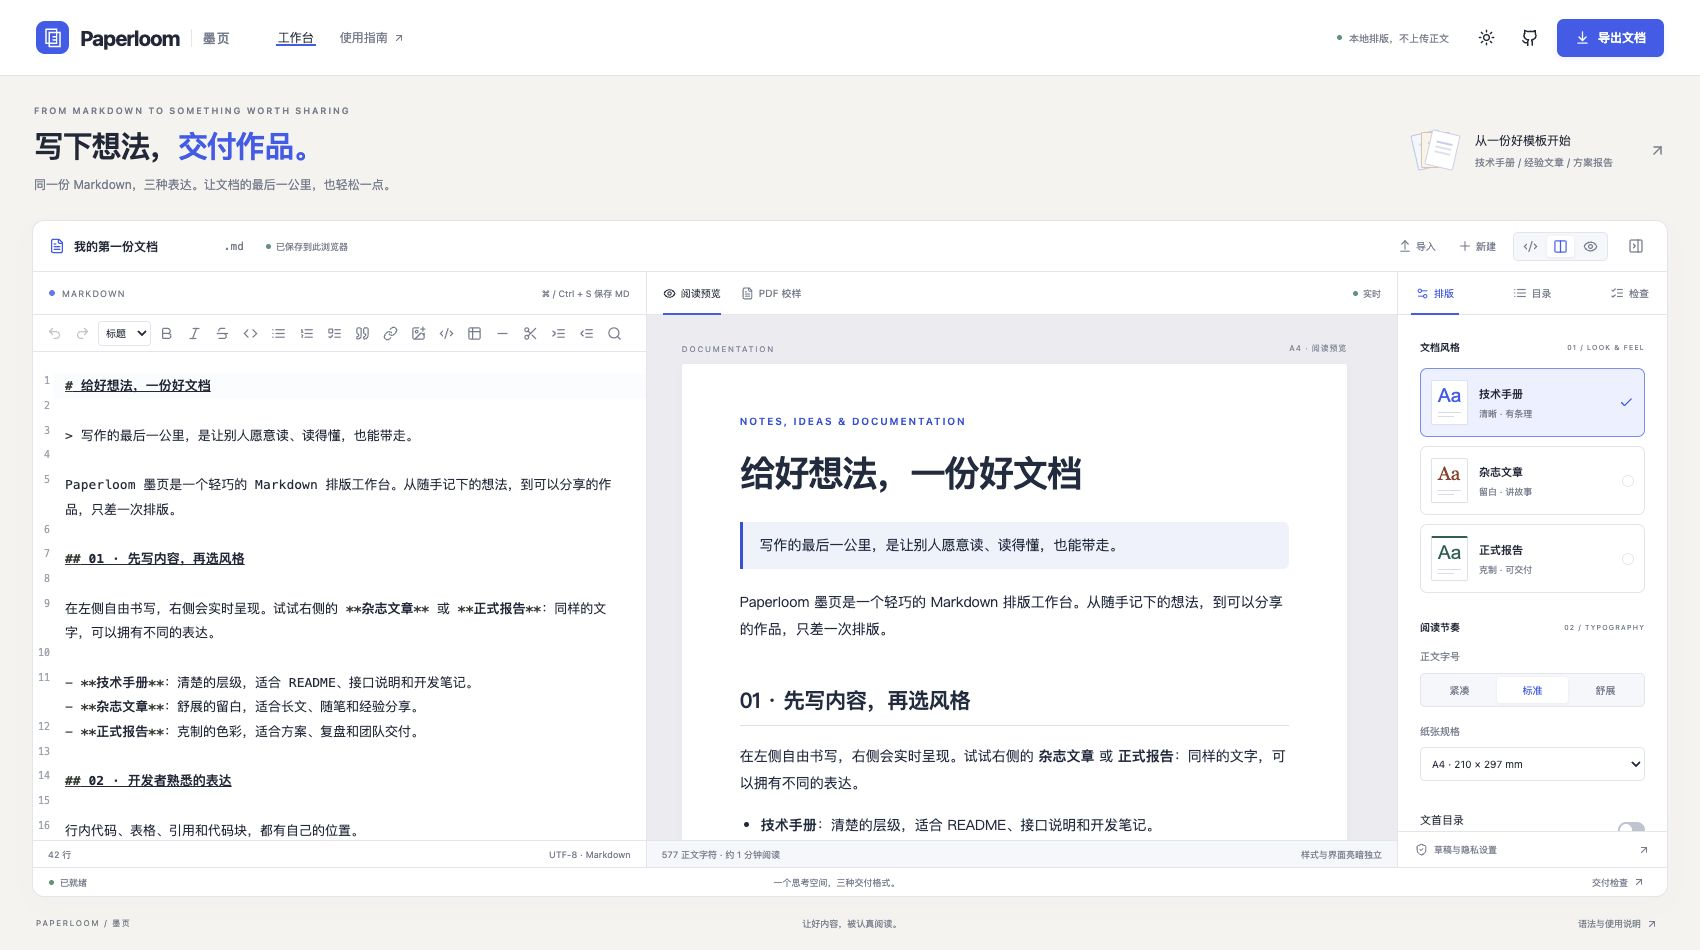
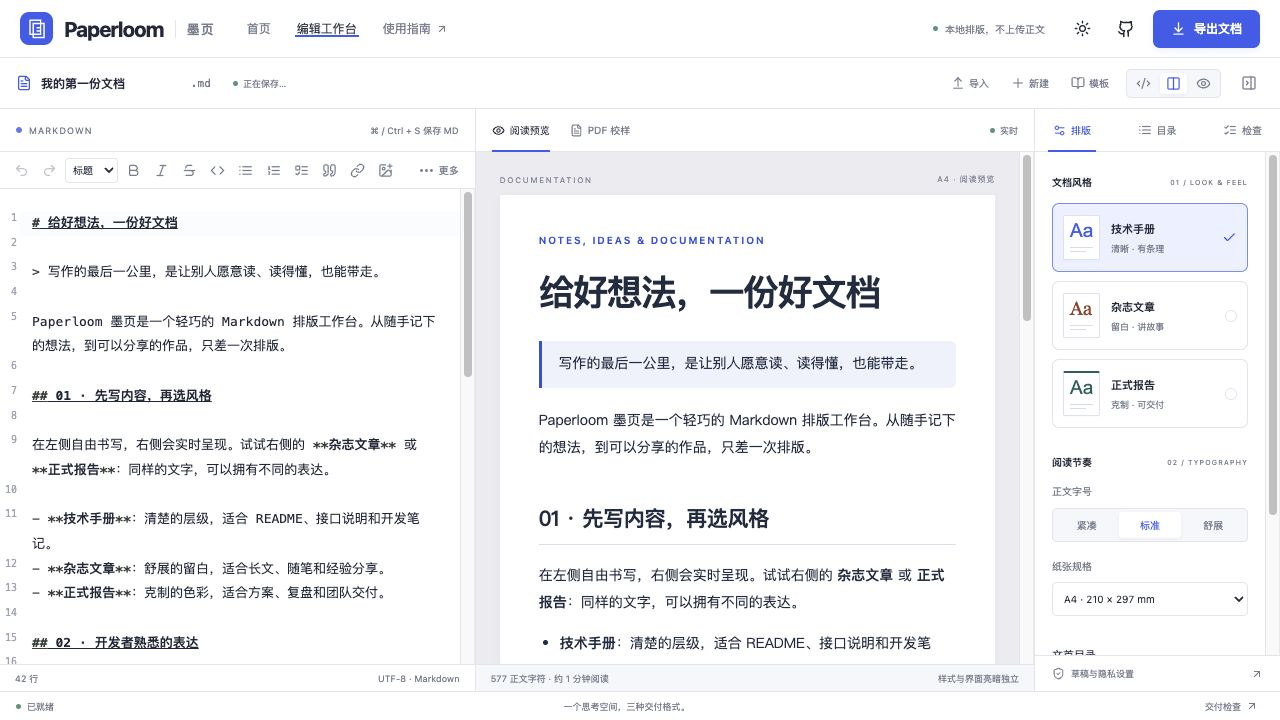
Separate showcase home from full-window Markdown workspace

diff --git a/src/App.tsx b/src/App.tsx
@@ -36,6 +36,7 @@ import {
   Type,
   X,
 } from "lucide-react";
+import { Home } from "./ui/Home";
 import { Editor, type EditorHandle } from "./ui/Editor";
 import { Modal } from "./ui/Modal";
 import { MarkdownToolbar } from "./ui/MarkdownToolbar";
@@ -97,6 +98,22 @@ function download(blob: Blob, name: string) {
   setTimeout(() => URL.revokeObjectURL(url), 30000);
 }
 export default function App() {
+  const [page, setPage] = useState(() => location.hash.startsWith("#/workspace") ? "workspace" : "home");
+  const isWorkspace = page === "workspace";
+  const enterWorkspace = () => { location.hash = "/workspace"; };
+  useEffect(() => {
+    const navigate = () => {
+      setPage(location.hash.startsWith("#/workspace") ? "workspace" : "home");
+      if (!location.hash.startsWith("#/workspace")) setModal("");
+      window.scrollTo(0, 0);
+      requestAnimationFrame(() => { if (!document.querySelector("dialog[open]")) document.getElementById("workspace")?.focus({ preventScroll: true }); });
+    };
+    window.addEventListener("hashchange", navigate);
+    return () => window.removeEventListener("hashchange", navigate);
+  }, []);
+  useEffect(() => {
+    document.title = isWorkspace ? "编辑工作台 · Paperloom 墨页" : "Paperloom 墨页 · Markdown 排版与交付";
+  }, [isWorkspace]);
   const [history, setHistory] = useState({ undo: false, redo: false });
   const [initial] = useState(load),
     [source, setSource] = useState(initial.source),
@@ -113,7 +130,7 @@ export default function App() {
       initial.restored ? "已恢复本地草稿" : "草稿仅保存在此浏览器",
     );
   const [mode, setMode] = useState<"split" | "edit" | "preview">("split"),
-    [sidebar, setSidebar] = useState(true),
+    [sidebar, setSidebar] = useState(() => !matchMedia("(max-width: 720px)").matches),
     [sideTab, setSideTab] = useState<"style" | "outline" | "check">("style"),
     [previewTab, setPreviewTab] = useState<"read" | "pdf">("read"),
     [modal, setModal] = useState<
@@ -424,21 +441,20 @@ export default function App() {
     },
   ] as const;
   return (
-    <>
-      <a href="#workspace" className="skip">
+    <div className={`app-shell ${isWorkspace ? "workspace-page" : "home-page"}`}>
+      <a href="#/workspace" className="skip" onClick={(e) => { if (isWorkspace) { e.preventDefault(); document.getElementById("editor-workbench")?.focus(); } }}>
         跳到工作台
       </a>
       <header className="app-header">
-        <a className="brand" href="#" aria-label="Paperloom 墨页首页">
+        <a className="brand" href="#/" aria-label="Paperloom 墨页首页">
           <img src={`${import.meta.env.BASE_URL}favicon.svg`} alt="" />
           <span>
             Paperloom<small>墨页</small>
           </span>
         </a>
         <nav className="main-nav">
-          <button className="active" onClick={() => setModal("")}>
-            工作台
-          </button>
+          <button className={!isWorkspace ? "active" : ""} onClick={() => { location.hash = "/"; }}>首页</button>
+          <button className={isWorkspace ? "active" : ""} onClick={enterWorkspace}>编辑工作台</button>
           <button onClick={() => setModal("guide")}>
             使用指南 <ArrowUpRight size={12} />
           </button>
@@ -478,42 +494,23 @@ export default function App() {
           >
             <Github size={18} />
           </a>
-          <button
+          {isWorkspace ? <button
             className="primary header-export"
             disabled={!fresh || pdfBusy}
             onClick={() => setModal("export")}
-          >
-            <ArrowDownToLine size={15} /> 导出文档
-          </button>
+          ><ArrowDownToLine size={15} /> 导出文档</button> : <button className="primary header-export" onClick={enterWorkspace}><Maximize2 size={15} /> 进入工作台</button>}
+
         </div>
       </header>
       <main id="workspace" tabIndex={-1}>
-        <section className="intro">
-          <div>
-            <div className="eyebrow">
-              FROM MARKDOWN TO SOMETHING WORTH SHARING
-            </div>
-            <h1>
-              写下想法，<em>交付作品。</em>
-            </h1>
-            <p>同一份 Markdown，三种表达。让文档的最后一公里，也轻松一点。</p>
-          </div>
-          <button
-            className="template-entry"
-            onClick={() => setModal("templates")}
-          >
-            <span className="mini-sheets">
-              <i />
-              <i />
-              <i />
-            </span>
-            <span>
-              从一份好模板开始<small>技术手册 / 经验文章 / 方案报告</small>
-            </span>
-            <ArrowUpRight size={17} />
-          </button>
-        </section>
+        {!isWorkspace && <Home onStart={enterWorkspace}
+          onImport={() => { enterWorkspace(); file.current?.click(); }}
+          onTemplates={() => { enterWorkspace(); setModal("templates"); }}
+          onGuide={() => setModal("guide")} restored={initial.restored} />}
         <section
+          id="editor-workbench"
+          tabIndex={-1}
+          hidden={!isWorkspace}
           className={`workbench mode-${mode} ${sidebar ? "" : "no-sidebar"}`}
           aria-label="Markdown 工作台"
         >
@@ -556,6 +553,8 @@ export default function App() {
                 <Plus size={14} />
                 新建
               </button>
+              <button onClick={() => setModal("templates")}><BookOpen size={14} />模板</button>
+              <button className="workspace-help" onClick={() => setModal("guide")} aria-label="使用指南"><BookOpen size={14} /></button>
               <div className="layout-switch" role="group" aria-label="编辑布局">
                 <button
                   aria-label="仅编辑"
@@ -1021,13 +1020,13 @@ export default function App() {
             </button>
           </div>
         </section>
-        <footer className="site-footer">
+        {!isWorkspace && <footer className="site-footer">
           <span>PAPERLOOM / 墨页</span>
           <span>让好内容，被认真阅读。</span>
           <button onClick={() => setModal("guide")}>
             语法与使用说明 <ArrowUpRight size={12} />
           </button>
-        </footer>
+        </footer>}
       </main>
       <input
         type="file"
@@ -1236,7 +1235,7 @@ export default function App() {
             <p className="guide-lead">
               写作 → 选排版 → 做检查 → 看校样 → 导出。
               <br />
-              第一次打开就能开始，不需要账号和配置。
+              从首页进入「编辑工作台」即可开始，不需要账号和配置。首页仅展示功能；工作台占满窗口，导入、模板、排版、检查和导出都在其中。
             </p>
             <div className="guide-grid">
               <section>
@@ -1301,6 +1300,6 @@ export default function App() {
           </button>
         </div>
       )}
-    </>
+    </div>
   );
 }

diff --git a/src/app.css b/src/app.css
@@ -2237,3 +2237,70 @@ main#workspace {
 .toolbar-more-size {
   width: max-content;
 }
+
+/* Dedicated viewport workspace; the home page is a read-only product showcase. */
+[hidden] { display: none !important; }
+.workspace-page { height: 100dvh; display: flex; flex-direction: column; overflow: hidden; }
+.workspace-page .app-header { height: 58px; flex: 0 0 58px; padding: 0 20px; gap: 30px; }
+.workspace-page main#workspace { max-width: none; width: 100%; margin: 0; padding: 0; flex: 1; min-height: 0; display: flex; }
+.workspace-page .workbench { width: 100%; height: 100%; min-height: 0; max-height: none; border: 0; border-radius: 0; box-shadow: none; }
+.workspace-help { display: none; }
+.home-content { max-width: 1200px; margin: auto; }
+.home-hero { text-align: center; padding: 70px 20px 46px; }
+.home-hero h1 { font-size: clamp(42px, 5vw, 68px); letter-spacing: -2px; line-height: 1.2; margin: 22px 0; }
+.home-hero h1 em { color: var(--accent); font-style: normal; }
+.home-hero p { color: var(--muted); font-size: 15px; line-height: 1.9; }
+.home-actions { display: flex; justify-content: center; flex-wrap: wrap; gap: 12px; margin: 28px 0 18px; }
+.home-actions button { min-height: 44px; }
+.home-local { display: inline-flex; gap: 7px; align-items: center; color: var(--muted); font-size: 11px; }
+.showcase { border: 1px solid var(--line); border-radius: 14px; background: var(--surface); overflow: hidden; box-shadow: 0 20px 65px #252d400a; }
+.showcase-bar { display: flex; justify-content: space-between; align-items: center; padding: 16px 24px; border-bottom: 1px solid var(--line); font-size: 10px; color: var(--muted); }
+.showcase-bar button { color: var(--accent); }
+.showcase-body { display: grid; grid-template-columns: 1fr 1fr; background: var(--preview); }
+.showcase-source { padding: 35px; background: var(--surface); }
+.showcase-source > span { font-size: 9px; letter-spacing: 2px; color: var(--muted); }
+.showcase-source pre { font: 13px/2.2 "SFMono-Regular",Consolas,monospace; white-space: pre-wrap; margin-top: 24px; color: var(--text); }
+.showcase-paper { margin: 28px; padding: 36px; background: #fff; color: #252d40; box-shadow: 0 4px 20px #252d4008; }
+.showcase-paper > span, .showcase-paper small { font-size: 8px; letter-spacing: 1.5px; color: #4263eb; }
+.showcase-paper h2 { font-size: 30px; line-height: 1.5; margin: 22px 0; }
+.showcase-paper blockquote { margin: 0; padding: 12px; border-left: 3px solid #4263eb; background: #eff2ff; font-size: 12px; }
+.showcase-paper h3 { font-size: 16px; margin-top: 25px; }
+.showcase-paper p { font-size: 12px; line-height: 1.9; }
+.showcase-paper hr { border: 0; border-top: 1px solid #e6e8ee; margin: 24px 0; }
+.home-features { display: grid; grid-template-columns: repeat(3, 1fr); gap: 38px; padding: 65px 10px; }
+.home-features svg { color: var(--accent); }
+.home-features h2 { font-size: 18px; margin-top: 18px; }
+.home-features p { font-size: 13px; color: var(--muted); line-height: 1.9; }
+.home-features button { color: var(--accent); font-size: 12px; padding: 6px 0; }
+.home-bottom { text-align: center; padding: 15px 10px 50px; }
+.home-bottom h2 { font-size: 24px; margin-bottom: 24px; }
+@media (max-width: 980px) and (min-width: 721px) {
+  .workspace-page .save-state { display: none; }
+  .workspace-page .document-name input { width: 100px; }
+}
+@media (max-width: 720px) {
+  .workspace-page .app-header { padding: 0 12px; gap: 10px; height: 54px; flex-basis: 54px; }
+  .workspace-page .brand small { display: none; }
+  .workspace-page .workbench { display: grid; grid-template-columns: minmax(0,1fr); grid-template-rows: 82px minmax(0,1fr) 29px; }
+  .workspace-page .editor-pane, .workspace-page .preview-pane { height: auto; min-height: 0; grid-column: 1; grid-row: 2; }
+  .workspace-page .mode-split .preview-pane { display: none; }
+  .workspace-page .layout-switch button[aria-label="分屏"] { display: none; }
+  .workspace-page .mode-split button[aria-label="仅编辑"] { background: var(--surface); color: var(--accent); }
+  .workspace-page .inspector { position: absolute; top: 82px; bottom: 29px; right: 0; width: min(300px,100%); height: auto; z-index: 25; border-left: 1px solid var(--line); box-shadow: -8px 0 25px #252d4020; }
+  .workspace-page .save-state { font-size: 7px; }
+  .workspace-page .document-actions { gap: 4px; }
+  .workspace-help { display: inline-flex; }
+  .workspace-page .workbench-status { grid-column: 1; grid-row: 3; }
+  .home-hero { padding: 45px 0 32px; }
+  .home-hero p { font-size: 12px; }
+  .showcase-bar { padding: 13px 12px; font-size: 8px; }
+  .showcase-body { grid-template-columns: 1fr; }
+  .showcase-source { display: none; }
+  .showcase-paper { margin: 18px; padding: 28px; }
+  .home-features { grid-template-columns: 1fr; gap: 24px; padding: 40px 8px; }
+  .home-features h2 { margin-top: 12px; }
+  .home-bottom h2 { font-size: 20px; }
+}
+@media (min-width: 721px) {
+  .document-actions > .workspace-help { display: none; }
+}

diff --git a/src/ui/Home.tsx b/src/ui/Home.tsx
@@ -1,0 +1,30 @@
+import { ArrowUpRight, ArrowUpFromLine, BookOpen, Columns2, FileText, Maximize2, ShieldCheck } from "lucide-react";
+export function Home({ onStart, onImport, onTemplates, onGuide, restored }: {
+  onStart: () => void; onImport: () => void; onTemplates: () => void; onGuide: () => void; restored: boolean;
+}) {
+  return <div className="home-content">
+    <section className="home-hero">
+      <div className="eyebrow">A LITTLE ROOM FOR GOOD IDEAS</div>
+      <h1>写下想法，<br /><em>交付作品。</em></h1>
+      <p>从 Markdown 到值得分享的文档。<br />在完整的编辑工作台里写作、排版、校样，一次完成。</p>
+      <div className="home-actions">
+        <button className="primary" onClick={onStart}><Maximize2 size={17} />{restored ? "继续编辑本地草稿" : "打开编辑工作台"}<ArrowUpRight size={16} /></button>
+        <button className="secondary" onClick={onImport}><ArrowUpFromLine size={16} />导入 Markdown</button>
+      </div>
+      <span className="home-local"><ShieldCheck size={14} />无需登录 · 正文留在浏览器 · 免费开源</span>
+    </section>
+    <section className="showcase" aria-label="工作台功能展示">
+      <div className="showcase-bar"><span><span className="status-dot" /> PAPERLOOM / 工作台预览</span><button onClick={onStart}>进入全屏编辑 <ArrowUpRight size={14} /></button></div>
+      <div className="showcase-body">
+        <div className="showcase-source"><span>MARKDOWN</span><pre>{'# 给好想法，一份好文档\n\n> 写作的最后一公里。\n\n## 先写内容，再选风格\n\n- [x] 在线编辑与实时预览\n- [x] 三种文档排版\n- [x] PDF · HTML · Markdown\n\n**让内容，被认真阅读。**'}</pre></div>
+        <article className="showcase-paper"><span>NOTES, IDEAS & DOCUMENTATION</span><h2>给好想法，<br />一份好文档</h2><blockquote>写作的最后一公里。</blockquote><h3>先写内容，再选风格</h3><p>技术手册、经验文章、方案报告。<br />同一份 Markdown，三种表达。</p><hr /><small>THOUGHTFULLY WRITTEN.</small></article>
+      </div>
+    </section>
+    <section className="home-features" aria-label="你可以在工作台做什么">
+      <div><Columns2 size={22} /><h2>为写作留出空间</h2><p>占满窗口的编辑区，分屏、仅编辑、仅预览自由切换；排版面板随时收起。</p><button onClick={onStart}>开始写作 <ArrowUpRight size={14} /></button></div>
+      <div><BookOpen size={22} /><h2>从好模板开始</h2><p>技术手册、杂志文章与正式报告。选好起点，再用目录和检查完善内容。</p><button onClick={onTemplates}>挑选模板 <ArrowUpRight size={14} /></button></div>
+      <div><FileText size={22} /><h2>校样，再交付</h2><p>生成真实 PDF 检查分页，导出可选择文字的 PDF、独立 HTML 或原始 MD。</p><button onClick={onGuide}>阅读使用指南 <ArrowUpRight size={14} /></button></div>
+    </section>
+    <div className="home-bottom"><h2>下一份好文档，从这里开始。</h2><button className="primary" onClick={onStart}>进入编辑工作台 <ArrowUpRight size={16} /></button></div>
+  </div>;
+}

diff --git a/docs/validation.md b/docs/validation.md
@@ -60,3 +60,9 @@
 浏览器验证：宽编辑区 / 1700px 分屏显示全部 20 个操作且无更多；1280px 常规分屏显示 12 个、更多 8 个；390px 手机显示 8 个、更多 12 个，按钮处于同一行，菜单可滚动且不超出页面。窗口宽度恢复后按钮自动移回；工具栏原本持有焦点时仍保留可见焦点。已实际验证可见按钮的选区加粗/撤销，以及溢出菜单的语言代码块插入和插入后编辑焦点。
 
 本次仅调整工具栏呈现与分发，Markdown 处理、存储配置和导出逻辑未改动。核心回归测试继续执行。
+
+## 1.2.0 首页与全窗口工作台（2026-11-01）
+
+首页改为静态产品展示，#/workspace 为可刷新和直达的编辑路由；共用原有编辑器及文档状态，切换时仅隐藏编辑器，保留撤销记录。工作台占满窗口，模板与手机使用指南增加就近入口；原有导入、新建、排版、目录、检查、校样、导出及隐私设置继续复用。手机默认收起排版面板，编辑与预览切换显示。
+
+本地实际浏览器验证：1280×720 工作台从 y=58 到窗口底部，没有页面垂直滚动；390×844 编辑区高 576px，无水平/页面垂直溢出，侧栏可开关、可切换预览，实际下载 MD。输入测试正文、返回首页再进入后内容及撤销记录仍在，撤销替换恢复原文。模板与导出弹窗均从工作台打开。自动回归继续执行原有 33 项测试和生产构建。
